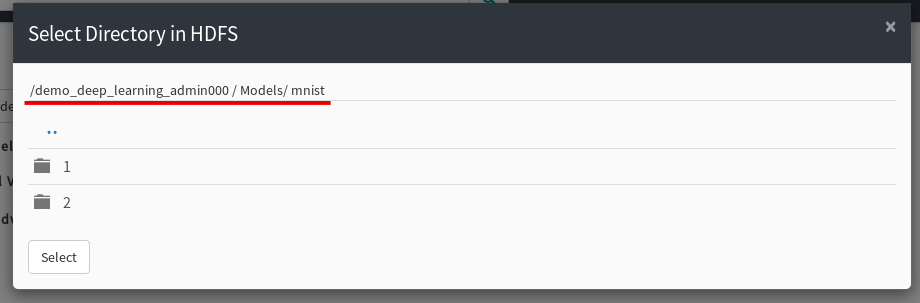
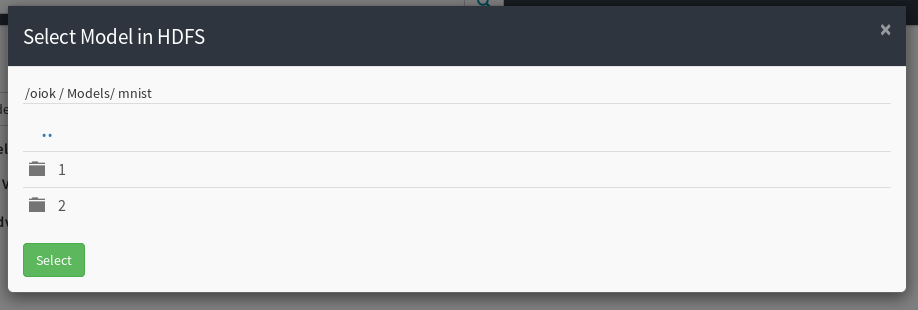
[HOPSWORKS-584] Rest API for TensorFlow Serving - ammend

Changed region(s): [[0.0, 0.0, 1.0, 0.9802]]

diff --git a/docs/hopsml/model_serving.rst b/docs/hopsml/model_serving.rst
@@ -64,7 +64,7 @@ Next click on the model button to select from your project the model you want to
    :align: center
    :figclass: align-center
 
-This will open a popup window that will allow you to browse your project and select directory containing  the model you want to serve. You should select the model directory, meaning the directory containing the sub-directories with the different versions of your model. In the example below we have exported two versions of the *mnist* model. In this step we select the *mnist* directory containing the two versions. 
+This will open a popup window that will allow you to browse your project and select directory containing  the model you want to serve. You should select the model directory, meaning the directory containing the sub-directories with the different versions of your model. In the example below we have exported two versions of the *mnist* model. In this step we select the *mnist* directory containing the two versions. The *select* button will be enabled (it will become green) when you browse into a valid model directory. 
    
 .. _serving3.png: ../_images/serving/serving3.png
 .. figure:: ../imgs/serving/serving3.png
@@ -88,6 +88,8 @@ By clicking on *Advanced* you can access the advanced configuration for your ser
 By default a new Kafka topic is created for each new serving (*CREATE*). You can avoid logging your inference requests by selecting *NONE* from the dropdown menu.  
 You can also re-use an existing Kafka topic as long as its schema meets the requirement of the inference logger.
 
+At this stage you can also configure the TensorFlow Serving server to process the requests in batches.  
+
 .. _serving5.png: ../_images/serving/serving5.png
 .. figure:: ../imgs/serving/serving5.png
    :alt: Advanced configuration 
@@ -109,7 +111,27 @@ After having created the serving instance, a new entry is added to the list.
    :figclass: align-center
 
 Click on the *Run* button to start the serving instance. After a few seconds the instance will be up and running, ready to start processing incoming inference requests.
-    
+
+You can check the logs of the TensorFlow Serving instance by *clicking* on the *logs* button. This will bring you to the Kibana UI, from which you will be able to see if the the serving instance managed to load the model correctly or not.   
+ 
+.. _serving8.png: ../_images/serving/serving8.png
+.. figure:: ../imgs/serving/serving8.png
+   :alt: Start the serving
+   :target: `serving8.png`_
+   :align: center
+   :figclass: align-center   
+
+   Log button
+
+.. _serving9.png: ../_images/serving/serving9.png
+.. figure:: ../imgs/serving/serving9.png
+   :alt: Start the serving
+   :target: `serving9.png`_
+   :align: center
+   :figclass: align-center   
+
+   Kibana UI
+
 **Step 4.**
 
 After a while your model will become stale and you will have to re-train it and export it again. To update your serving instance to serve the newer version of the model, click on the edit button. You don't need to stop your serving instance, you can update the model version while the serving server is running.
